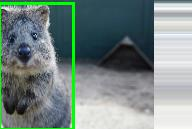
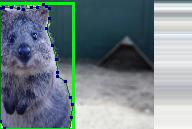
Add polygons to small overview images

diff --git a/generate_main_repo_readme_images.py b/generate_main_repo_readme_images.py
@@ -24,8 +24,8 @@ IMAGES_DIR = "readme_images"
 
 
 def main():
-    # draw_small_overview()
-    # draw_single_sequential_images()
+    draw_small_overview()
+    draw_single_sequential_images()
     draw_per_augmenter_videos()
 
 
@@ -36,12 +36,14 @@ def draw_small_overview():
     segmap = ia.quokka_segmentation_map(size=0.2)
     kps = ia.quokka_keypoints(size=0.2)
     bbs = ia.quokka_bounding_boxes(size=0.2)
+    polys = ia.quokka_polygons(size=0.2)
     batch = ia.Batch(
         images=[image],
         heatmaps=[heatmap.invert()],
         segmentation_maps=[segmap],
         keypoints=[kps],
-        bounding_boxes=[bbs]
+        bounding_boxes=[bbs],
+        polygons=[polys]
     )
 
     augs = []
@@ -65,6 +67,9 @@ def draw_small_overview():
         image_aug_segmap = result.segmentation_maps_aug[0].draw_on_image(image_aug, alpha=0.8)
         image_aug_kps = result.keypoints_aug[0].draw_on_image(image_aug, color=[0, 255, 0], size=7)
         image_aug_bbs = result.bounding_boxes_aug[0].clip_out_of_image().draw_on_image(image_aug, thickness=3)
+        # add polys for now to BBs image to save (screen) space
+        image_aug_bbs = result.polygons_aug[0].clip_out_of_image().draw_on_image(
+            image_aug_bbs, color=[0, 0, 255], color_points=[0, 0, 128], alpha=0.1, alpha_points=1.0)
         imageio.imwrite(os.path.join(IMAGES_DIR, "small_overview", "%s_image.jpg" % (name,)), image_aug)
         imageio.imwrite(os.path.join(IMAGES_DIR, "small_overview", "%s_heatmap.jpg" % (name,)), image_aug_heatmap)
         imageio.imwrite(os.path.join(IMAGES_DIR, "small_overview", "%s_segmap.jpg" % (name,)), image_aug_segmap)
